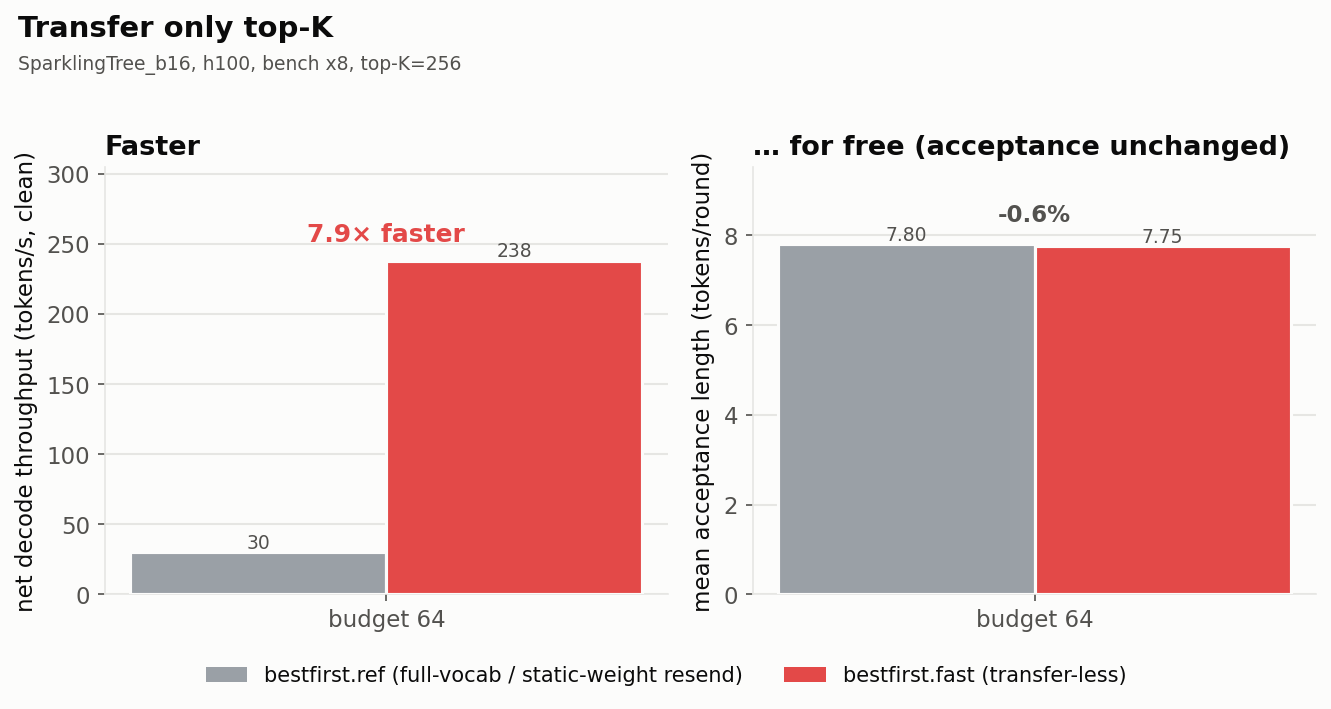
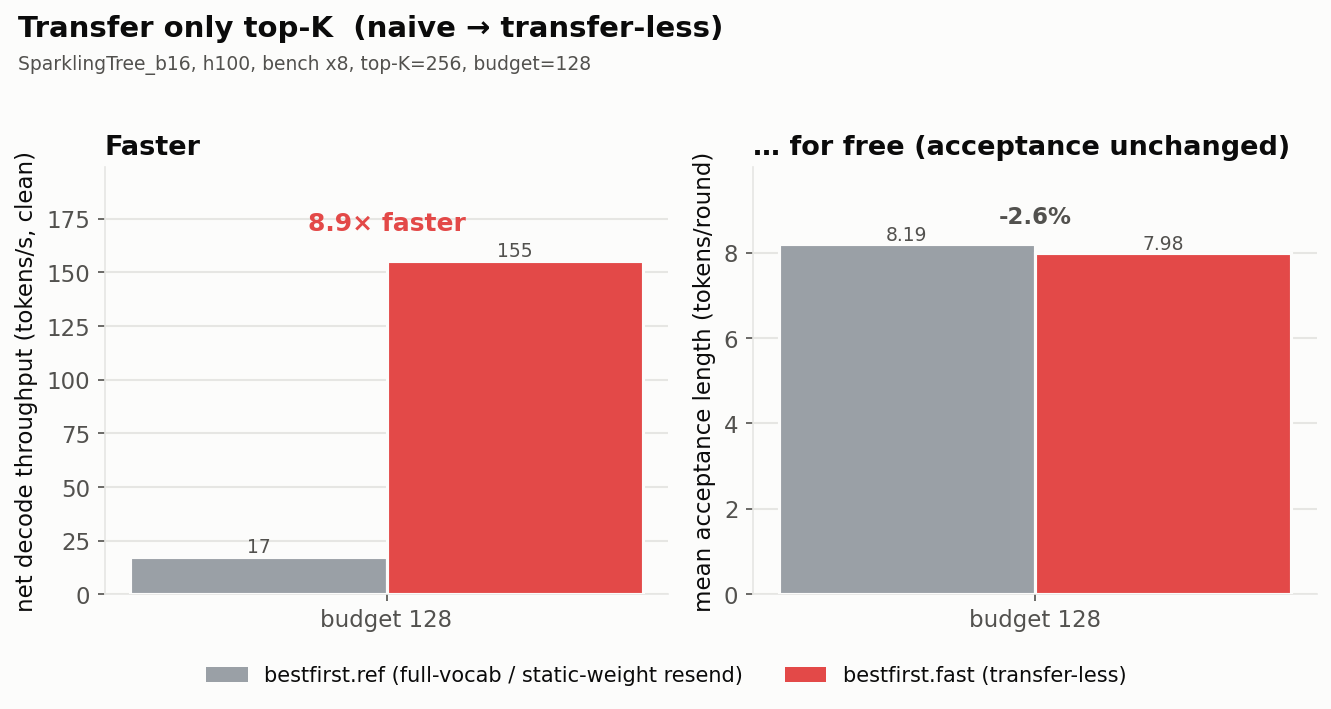
Complete SparklingTree culprit-2 solution: precompute + table lookup results
Budget-128 rerun of the transfer-only-top-k charts (8.9x, 98% build cut)
and the new precompute results (1.15x TPS, .expand 8.7 -> 0.27 ms/round).
Last draft placeholder removed — the article is now fully written.

Claude-Session: https://claude.ai/code/session_01Ev2qgrrBSa65wfv6bmJC1b

diff --git a/content/blogs.js b/content/blogs.js
@@ -2250,21 +2250,23 @@ We cannot go back and forth from CPU to GPU at each step. This means we can't ju
 
 The way we explore cutting this down is by running the top-k over all indexes immediately after the diffusion drafter is done (on GPU), before sending anything to the CPU. This could be lossy, because the markov bias is additive, so a token outside the base top-k could have been promoted into the true biased top-k that was excluded. It still captures ~99% because the bias is relatively small, so if we capture enough of a top-k (a few thousand instead of the 100k+ vocabulary size), we can practically cover it all.
 
-We see a nearly 8× speedup by sending only the top-k of k=256 at node budget 64:
+We see a nearly 9× speedup by sending only the top-k of k=256 at node budget 128:
 
-![An 8× speedup without changing the acceptance rate, by transferring only the top 256 candidates to CPU.](/content/sparklingtree/results-8-topk-transfer.png)
+![An 8.9× speedup (17 → 155 tokens/sec) without changing the acceptance rate, by transferring only the top 256 candidates to CPU.](/content/sparklingtree/results-8-topk-transfer.png)
 
 Surprisingly, BOTH the time to send the candidates to CPU (expected to decrease, because we send only a fraction of the full vocab size) AND the expansion time to create the heap (an unexpected side benefit) decreased significantly. The reason is that with a lower vocab size, the sorting and selecting task for the CPU becomes drastically faster as well.
 
-![The prep time (sending over the candidates to CPU) AND the expansion (heap building) time collapse drastically.](/content/sparklingtree/results-9-prep-collapse.png)
+![The prep time (sending over the candidates to CPU) AND the expansion (heap building) time collapse drastically: 453 → 50 ms/round, a 98% candidate-build cut.](/content/sparklingtree/results-9-prep-collapse.png)
 
 **2. Doing repeated compute on CPU (particularly in the loop of expanding the tree)**
 
 When we were working with DDTree, we could do the compute of top-k all as one batched matmul on the GPU beforehand, because of the independence between indexes. Now, we have to do N small sorts all on CPU. (Multiple small operations, and on CPU, is not good.)
 
-We need a way to be able to precompute as much of the iterative work in a single batch beforehand.
+We need a way to be able to precompute as much of the iterative work in a single batch beforehand. The answer: precompute the markov arithmetic as one upfront batched matmul, and turn every per-pop computation into a table lookup.
 
-> **[Draft section — in progress]** The solution writeup continues from here.
+![Precompute vs the transfer-less best (budget 128, top-K=256): one upfront matmul + table lookup gives 1.15× TPS (155 → 179 tokens/sec) at a −3.9% acceptance cost.](/content/sparklingtree/results-10-precompute-tps.png)
+
+![Precompute drives the expansion time from 8.7 → 0.27 ms/round (total 50 → 42 ms, 17% faster per round).](/content/sparklingtree/results-11-precompute-breakdown.png)
 
 # Conclusion and results
 
